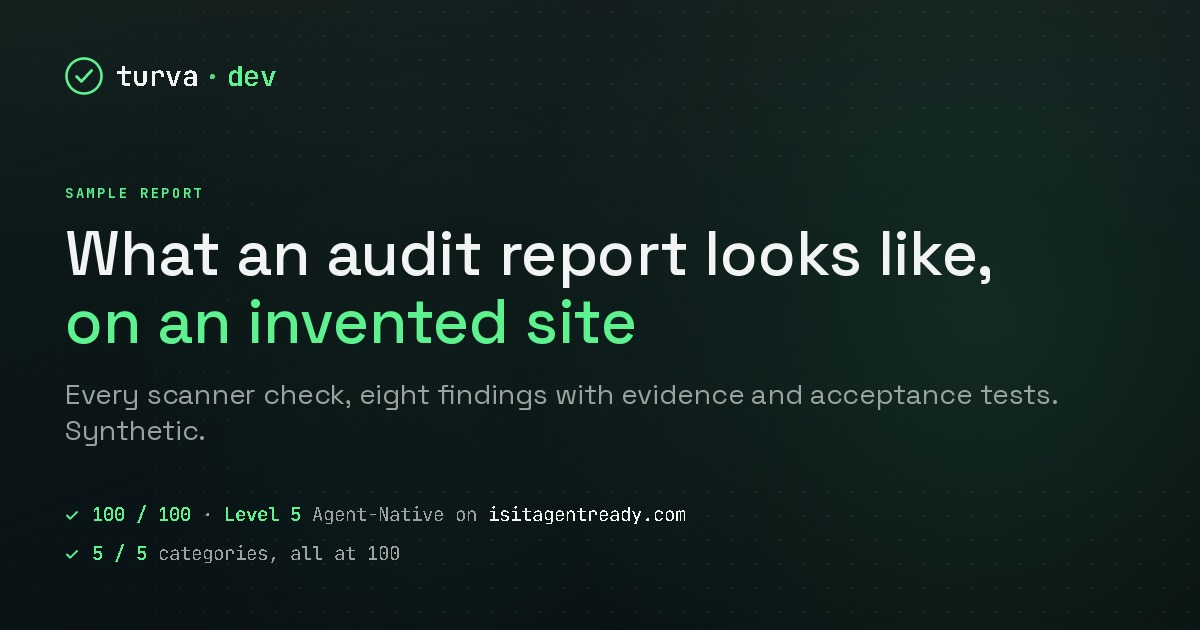
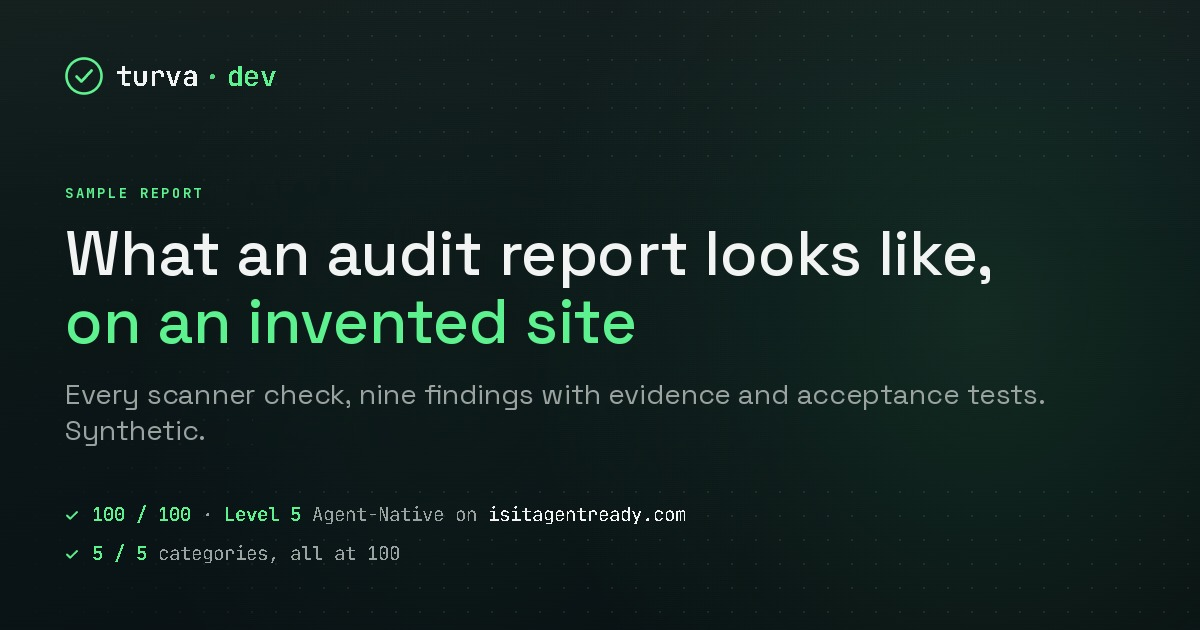
v3.148.0: blog filter hides cards (.post[hidden]), three audit page claims narrowed to the sample, audit sample card says nine findings

Changed region(s): [[0.3083, 0.6032, 0.8633, 0.6635]]

diff --git a/turva-worker/src/worker.js b/turva-worker/src/worker.js
@@ -1,4 +1,5 @@
 // src/worker.js
+// turva.dev worker v3.148.0 - the blog filter hides cards for real (.post[hidden] beats .post{display:flex}; the artifact preview had masked it with its own [hidden] reset), three claims on /agent-readiness-audit narrowed to the sample and to what an assistant may do (source use, conflicting facts, scanner coverage), and the audit sample share card says nine findings.
 // turva.dev worker v3.147.0 - buying and content improvements from the 2026-09-08 brief: the home hero shows one finding from the synthetic sample report (F1, three sources, three answers) instead of the generic three-step card, the audit gets its own product page at /agent-readiness-audit (primary path, llms.txt Services row, sitemap, OfferCatalog url, own Service node, FAQPage) while /services keeps every anchor and shortens the two diagnoses to summaries, the home page runs hero, starting point, work you can inspect with the one reference-build board, process, questions, contact, both sample reports open with a one-line synthetic scope, the illustrative date and a "The first decision" summary with two follow-on actions (#f1 alias on the audit sample), /contact opens with the two prepared mailto cards, and /blog gains a search and kind filter served as /blog-filter.js under script-src self with the full list still in the HTML.
 // turva.dev worker v3.146.0 - the MCP server gained a fifth tool, get_contact, and every tool description now names the sibling to use instead and says the data updates only on deploy; the previous line: the published OpenPGP key is now the pair Proton holds (2026-09-07): mail moved to Proton in v3.144.0, so the RSA 4096 key the site served could no longer be decrypted; PGP_PUBLIC_KEY now carries two keys in one armored block, an Ed25519 v4 key first for clients that read only that, and a post-quantum ML-DSA-65 v6 key after it, and /contact prints both fingerprints.
 // turva.dev worker v3.144.0 - MTA-STS policy names both mail hosts during the mailbox.org to Proton move (2026-09-07): the enforce policy listed only the four mxext hosts, so a sending MTA that had cached it would refuse delivery to the new MX the moment it changed; mail.protonmail.ch and mailsec.protonmail.ch now stand alongside them and the mxext hosts stay until the move is done.
@@ -3442,7 +3443,7 @@ All work is handled in writing. First reply within one business day.
 
 The audit fits when one of these questions is open. It records what is there today and assumes nothing about your site in advance.
 
-- Your published product facts may disagree. A page, its structured data and an API can each say something different, and an assistant reads all three.
+- Your published product facts may disagree. A page, its structured data and an API can publish conflicting facts, and an assistant may encounter different answers depending on which source it uses.
 - An automated client cannot find or read content or an API that matters to you, and you want the evidence of what it receives today.
 - You need a documented baseline of what AI assistants answer about your product before deciding what to change.
 
@@ -3454,7 +3455,7 @@ In the synthetic sample report, the invented company Northwind Fasteners Oy publ
 - Structured product data: €0.00 · InStock
 - Product API: Empty price · Marked purchasable
 
-The scanner scores none of this, and it is still the first fix in the report. An assistant that reads wrong data quotes it with confidence, while a missing file only makes it guess. The scored gaps, markdown, llms.txt, headers and discovery files, follow in the same plan with their own acceptance tests. Fictional company and readings.
+In this sample, the scanner does not score the conflict between the product page, structured data and API, and it is still the first fix in the report. Conflicting product facts can lead an assistant to quote the wrong price or availability, so correcting those facts takes priority over improving scanner coverage. The scored gaps, markdown, llms.txt, headers and discovery files, follow in the same plan with their own acceptance tests. Fictional company and readings.
 
 [Inspect the finding in the sample report](/samples/audit-report#f1)
 
@@ -3468,7 +3469,7 @@ An independent scanner, isitagentready.com, runs against the site or API on its 
 
 ### Manual review
 
-Review of /.well-known/ manifests, JSON-LD, head metadata and HTTP headers. Review of robots.txt, sitemap.xml, ai.txt and llms.txt against current agent norms. Whether a page, its structured data and its API publish the same facts, which no scanner scores. Your published web security scans are read alongside the agent checks, so the report rests on measurements you can re-run yourself.
+Review of /.well-known/ manifests, JSON-LD, head metadata and HTTP headers. Review of robots.txt, sitemap.xml, ai.txt and llms.txt against current agent norms. Whether a page, its structured data and its API publish the same facts, a conflict the scanner in the sample report does not score. Your published web security scans are read alongside the agent checks, so the report rests on measurements you can re-run yourself.
 
 ### Observed AI answers
 
@@ -5729,7 +5730,7 @@ var OPENAPI_SPEC = JSON.stringify({
   "openapi": "3.1.0",
   "info": {
     "title": "turva.dev Agent API",
-    "version": "3.147.0",
+    "version": "3.148.0",
     "description": "Read-only metadata + payable endpoints for AI agents. MPP and x402 on the /api/agent/* routes; the x402 manifest also names /x402 and /api as challenge roots. ACP checkout sessions live under /api/acp/checkout_sessions and are stateless. The free endpoint index is /api/v1.",
     "contact": { "name": "Erik Rekola", "email": "info@turva.dev", "url": "https://turva.dev/" },
     "license": { "name": "Proprietary", "url": "https://turva.dev/legal" }
@@ -5997,7 +5998,7 @@ var A2A_AGENT_CARD = JSON.stringify({
   "description": "Public read-only agent interface for turva.dev, an independent agent-readiness audit and advisory business operated by Erik Rekola. Exposes the service catalog with prices, contact channels, and company information over HTTP+JSON. No authentication and no write operations.",
   "url": "https://turva.dev",
   "preferredTransport": "HTTP+JSON",
-  "version": "3.147.0",
+  "version": "3.148.0",
   "provider": {
     "organization": "turva.dev",
     "url": "https://turva.dev/"
@@ -9088,6 +9089,7 @@ ${FAQ_CSS}
 @media (max-width:560px){.toc ul{columns:1;}}
 .post{display:flex;flex-direction:column;gap:6px;box-sizing:border-box;min-width:0;border:1px solid #2D3D3D;border-radius:10px;background:#111F21;padding:18px 22px;margin:0 0 .75rem;text-decoration:none;transition:border-color .15s ease;}
 .post:hover{border-color:#5DF18F;text-decoration:none;}
+.post[hidden]{display:none;}
 .post .pt{display:block;color:#F2F4F3;font-weight:700;font-size:1.1rem;line-height:1.3;letter-spacing:-0.01em;}
 .post .pm{display:flex;flex-wrap:wrap;gap:.3rem .8rem;font-family:ui-monospace,SFMono-Regular,Menlo,monospace;font-size:.76rem;letter-spacing:.04em;color:#9AA3A0;}
 .post .pk{color:#5DF18F;}
